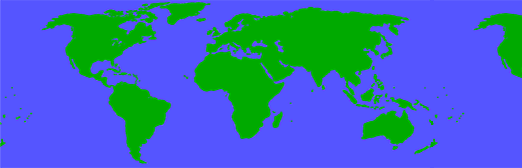
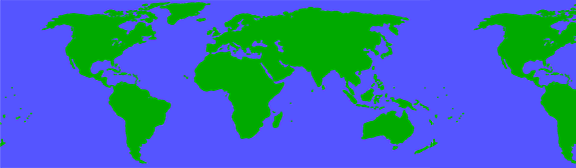
Gave up and removed Aplite support.

diff --git a/src/window.c b/src/window.c
@@ -1,9 +1,13 @@
 #include "window.h"
 #include <pebble.h>
 
+float myModFunc(float x, float y) {
+	return x - y*(int)(x/y);
+}
+	
 static GBitmap *map_full;
 static GBitmap *map_part;
-	
+
 // BEGIN AUTO-GENERATED UI CODE; DO NOT MODIFY
 static Window *s_window;
 static GFont s_res_droid_serif_28_bold;
@@ -12,7 +16,7 @@ static TextLayer *s_time_display;
 
 static void initialise_ui(void) {
   s_window = window_create();
-  window_set_fullscreen(s_window, 1);
+  window_set_background_color(s_window, GColorBlack);
   
   s_res_droid_serif_28_bold = fonts_get_system_font(FONT_KEY_DROID_SERIF_28_BOLD);
   // s_map_display
@@ -20,7 +24,11 @@ static void initialise_ui(void) {
   layer_add_child(window_get_root_layer(s_window), (Layer *)s_map_display);
   
   // s_time_display
-  s_time_display = text_layer_create(GRect(0, 57, 144, 30));
+  #ifdef PBL_COLOR
+    s_time_display = text_layer_create(GRect(0, 57, 144, 30));
+  #else
+    s_time_display = text_layer_create(GRect(0, 127, 144, 30));
+  #endif
   text_layer_set_background_color(s_time_display, GColorClear);
   text_layer_set_text_color(s_time_display, GColorWhite);
   text_layer_set_text(s_time_display, "00:00");
@@ -58,19 +66,20 @@ void handle_minute_tick(struct tm * tick_time, TimeUnits units_changed) {
 	clock_copy_time_string(time_text, sizeof(time_text));
 	text_layer_set_text(s_time_display, time_text);
 	
-	time_t* local_time = malloc(sizeof(local_time));
-	time(local_time);
-	struct tm* utc_time = gmtime(local_time);
-	
-	app_log(APP_LOG_LEVEL_DEBUG, "main.c", 47, "UTC: %i:%i", tick_time->tm_hour, tick_time->tm_min);
-	
-	int hours_for_placement = utc_time->tm_hour + (utc_time->tm_min/60.0); // Uses minutes as well as hours for more precision
-	
-	//int img_x_placement = (18*hours_for_placement) - 270;
-	int img_x_placement =  378 - (18 * hours_for_placement);
+	time_t local_time = time(NULL);
+	struct tm * utc_time = gmtime(&local_time);
+	app_log(APP_LOG_LEVEL_DEBUG, "window.c", 67, "UTC time: %i:%i", utc_time->tm_hour, utc_time->tm_min);
+	float hours_for_placement = utc_time->tm_hour + (utc_time->tm_min/60.0); // Uses minutes as well as hours for more precision
+
+	hours_for_placement = myModFunc(hours_for_placement, 24);
+	int img_x_placement =  432 - (18 * hours_for_placement);
 	
 	map_part = gbitmap_create_as_sub_bitmap(map_full, GRect(img_x_placement,0,144,168));
 	bitmap_layer_set_bitmap(s_map_display, map_part);
+	
+	app_log(APP_LOG_LEVEL_DEBUG, "window.c", 80, "h (map placement formula): %f", hours_for_placement);
+	app_log(APP_LOG_LEVEL_DEBUG, "window.c", 81, "local time: %i:%i", tick_time->tm_hour, tick_time->tm_min);
+	app_log(APP_LOG_LEVEL_DEBUG, "window.c", 82, "Map display: %ipx - %ipx", img_x_placement, img_x_placement+144);
 }
 
 void handle_init()
